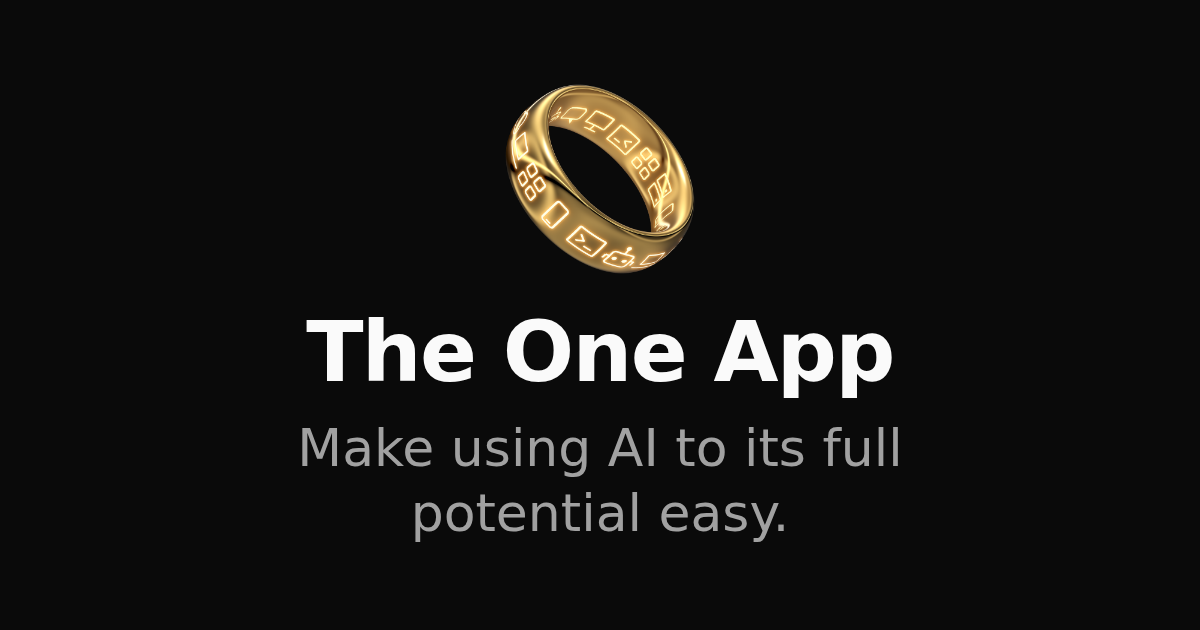
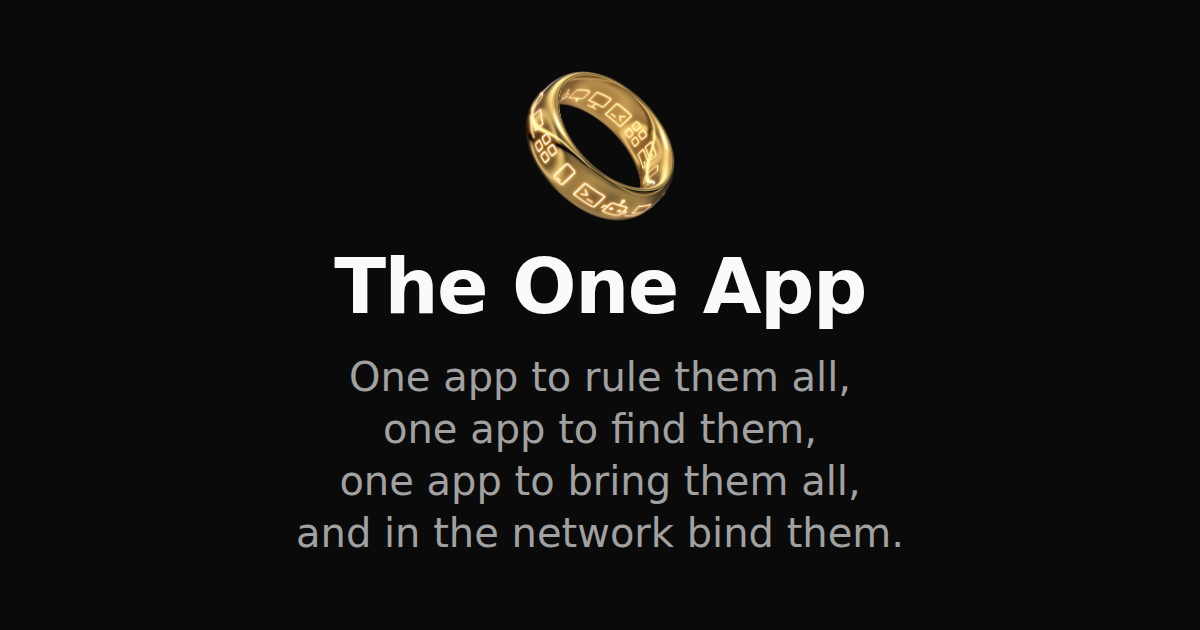
feat(www): the social card and the home page's description are the repo's verse, one app to rule them all

Changed region(s): [[0.2467, 0.0905, 0.74, 0.6333], [0.2467, 0.6635, 0.7708, 0.8746]]

diff --git a/www/marketing/public/index.html b/www/marketing/public/index.html
@@ -4,7 +4,7 @@
 <meta charset="utf-8">
 <meta name="viewport" content="width=device-width, initial-scale=1">
 <title>The One App</title>
-<meta name="description" content="The vision for this project is simple: make using AI to its full potential easy.">
+<meta name="description" content="One app to rule them all, one app to find them, one app to bring them all, and in the network bind them.">
 <link rel="canonical" href="https://one.drevan.me/">
 <link rel="icon" href="/ring.png">
 <meta name="theme-color" content="#0a0a0a" media="(prefers-color-scheme: dark)">
@@ -12,18 +12,18 @@
 <meta property="og:type" content="website">
 <meta property="og:site_name" content="The One App">
 <meta property="og:title" content="The One App">
-<meta property="og:description" content="The vision for this project is simple: make using AI to its full potential easy.">
+<meta property="og:description" content="One app to rule them all, one app to find them, one app to bring them all, and in the network bind them.">
 <meta property="og:url" content="https://one.drevan.me/">
 <meta property="og:image" content="https://one.drevan.me/social-card.png">
 <meta property="og:image:type" content="image/png">
 <meta property="og:image:width" content="1200">
 <meta property="og:image:height" content="630">
-<meta property="og:image:alt" content="The One App: make using AI to its full potential easy.">
+<meta property="og:image:alt" content="The One App: one app to rule them all, one app to find them, one app to bring them all, and in the network bind them.">
 <meta name="twitter:card" content="summary_large_image">
 <meta name="twitter:title" content="The One App">
-<meta name="twitter:description" content="The vision for this project is simple: make using AI to its full potential easy.">
+<meta name="twitter:description" content="One app to rule them all, one app to find them, one app to bring them all, and in the network bind them.">
 <meta name="twitter:image" content="https://one.drevan.me/social-card.png">
-<meta name="twitter:image:alt" content="The One App: make using AI to its full potential easy.">
+<meta name="twitter:image:alt" content="The One App: one app to rule them all, one app to find them, one app to bring them all, and in the network bind them.">
 <link rel="stylesheet" href="/style.css">
 </head>
 <body>

diff --git a/www/marketing/social-card.html b/www/marketing/social-card.html
@@ -8,10 +8,10 @@
     display: flex; flex-direction: column; align-items: center; justify-content: center; text-align: center;
     color: oklch(0.985 0 0); font-family: -apple-system, BlinkMacSystemFont, "Segoe UI Variable", "Segoe UI", system-ui, sans-serif;
   }
-  img { width: 190px; height: 190px; }
-  h1 { margin: 32px 0 0; font-size: 84px; font-weight: 700; letter-spacing: -0.02em; line-height: 1.1; }
-  p { margin: 18px 0 0; width: 640px; font-size: 52px; line-height: 1.25; color: oklch(0.708 0 0); }
+  img { width: 150px; height: 150px; }
+  h1 { margin: 24px 0 0; font-size: 76px; font-weight: 700; letter-spacing: -0.02em; line-height: 1.1; }
+  p { margin: 22px 0 0; width: 630px; font-size: 40px; line-height: 1.3; color: oklch(0.708 0 0); }
 </style>
 <img src="public/ring.png" alt="">
 <h1>The One App</h1>
-<p>Make using AI to its full potential easy.</p>
+<p>One app to rule them all,<br>one app to find them,<br>one app to bring them all,<br>and in the network bind them.</p>
